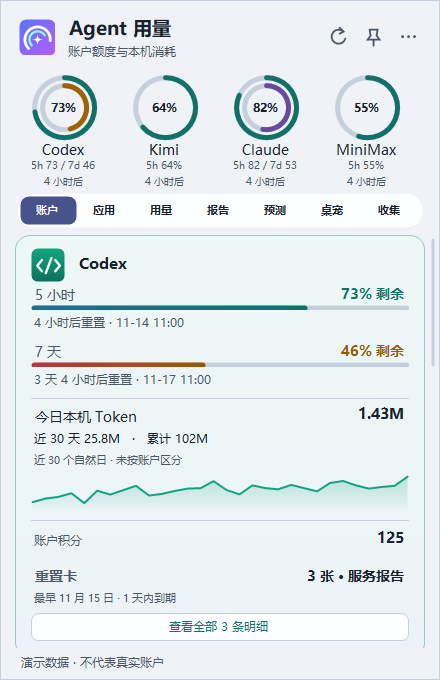
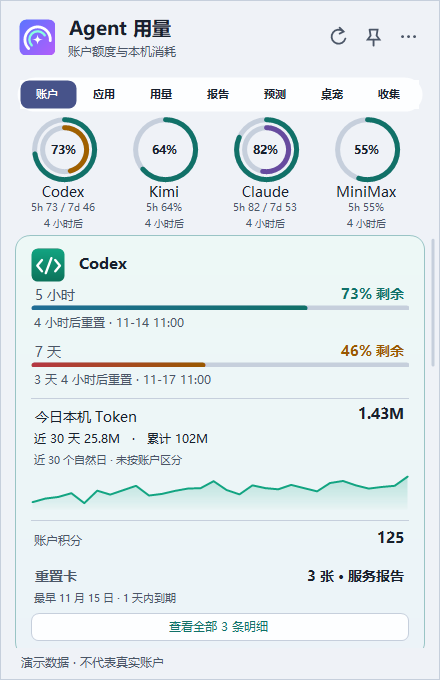
公开 Alpha 48 下载、重绘前后实拍与四档缩放验收结果

diff --git a/windows/PORT_PLAN.md b/windows/PORT_PLAN.md
@@ -4,11 +4,27 @@
 
 ## 下一轮验收重点
 
-1. **继续追查导航残影。** 从同一显示器的通知区域重复打开已经覆盖到 175%。接下来在 200% 和两块不同缩放的显示器上复核，记录面板在哪块屏上打开、是否恰逢刷新、旧高亮是否仍留在原位。保留出问题时的自然画面，再与重新绘制后的同一区域对照。
+1. **复核其他设备上的导航表现。** 已定位并修复正文切页后页头仍停留在旧选项的一种情形。接下来在 200% 和两块不同缩放的显示器上复核，记录面板在哪块屏上打开、是否恰逢刷新，并保留文字重叠或旧高亮出现时的画面。
 2. **完善账户首屏。** Alpha 46 已完成同一组数据、相同逻辑宽度的首屏对照。接着检查浅色主题、窄屏和多个账户同时出现时的行距、重置时间与键盘焦点，优先保证点开托盘就能读清当前余量。
 3. **走通最常用的数据路径。** 先选 Codex 和另一个已有授权的常用来源，从打开托盘、手动刷新一直核对到用量导出。额度按服务端同一时间窗口核对，本机 Token 按本机账本核对。README 分别标出已实测、仅有虚构数据验证和待适配的来源。
 
 下一次面向用户的发版优先交付能在托盘里看到的修复，附复现条件、前后画面和验证范围。验证阶段使用 [中文问题反馈](https://github.com/FoxBai/agent-meter-windows/issues/new/choose) 收集版本、屏幕缩放、触发步骤。稳定版仍需覆盖实体设备上的常用操作。
+
+## Alpha 48 连续切页实测
+
+Alpha 47 从「账户」切到「用量」时会收起额度环，把整排导航向上移。150% 缩放下，鼠标与原来的目标相距 174 个物理像素。Alpha 48 将导航固定在标题下方，账户页在它下面展示额度环，其余六页直接显示正文。这样保留了短屏上的可用空间，连续点击同一排即可切页。
+
+固定导航后的第一份候选包还暴露出另一个问题。从「账户」切到「应用」时，正文已经出现「应用概览」，标题说明和紫色高亮仍留在账户页。自然画面与强制重绘后的导航相差 3172 个像素。最终实现先把标题和导航一起绘制出来，再重建正文控件。[保留失败画面的构建记录](https://github.com/FoxBai/agent-meter-windows/actions/runs/44986327407)
+
+![同一切页步骤的真实画面。左图正文已是应用，高亮仍在账户。右图正文、说明和高亮都已切到应用。](assets/alpha48-navigation-comparison.png)
+
+这次验收从任务栏的隐藏图标进入，按正序和逆序点击七个页面，对同一页两次进入时的导航截图逐像素比较。随后用左右方向键跨越首尾标签，检查选中项和键盘焦点，再点击刷新，按 Esc 收起并从托盘重新打开。另在「用量」「报告」往返时连续取样高亮，日志保存每次采样的时间和选中项。此检查使用隔离桌面上的演示数据。
+
+从公开下载的 Alpha 48 便携包实测，四档缩放下七页导航的纵向偏移均为 0。对「用量」「报告」的八次切换共截取 138 帧，每帧均只有一项高亮。运行中从 150% 切回 125% 后，用量页也可从原托盘图标重新打开。[100%](https://github.com/FoxBai/agent-meter-windows/actions/runs/44987083441) · [125%](https://github.com/FoxBai/agent-meter-windows/actions/runs/44987083457) · [150%](https://github.com/FoxBai/agent-meter-windows/actions/runs/44987083616) · [175%](https://github.com/FoxBai/agent-meter-windows/actions/runs/44987083539)
+
+| 账户页 | 用量页 |
+| --- | --- |
+| <img src="assets/screenshot.png" width="325" alt="账户页选中第一个标签，额度环位于导航下方"> | <img src="assets/usage-preview.png" width="325" alt="用量页选中第三个标签，导航保持原位"> |
 
 ## Alpha 47 高缩放实测
 
@@ -57,6 +73,8 @@
 | 中文体验与文档 | 中文首页、快速使用、安全和贡献说明正在调整；英文作为辅助 | Windows 新代码的说明与注释以中文为主，保证 README、实际行为及下载版本一致 |
 
 ## 当前证据和限制
+
[1 lines of base64/hex data omitted]
 
[1 lines of base64/hex data omitted]
 

diff --git a/README.md b/README.md
@@ -10,11 +10,11 @@
 [![Windows 构建](https://github.com/FoxBai/agent-meter-windows/actions/workflows/windows-port.yml/badge.svg)](https://github.com/FoxBai/agent-meter-windows/actions/workflows/windows-port.yml)
 [![许可证：MIT](https://img.shields.io/badge/License-MIT-blue.svg)](LICENSE)
 
-[下载](https://github.com/FoxBai/agent-meter-windows/releases/tag/windows-v0.1.0-alpha.47) · [快速使用](windows/QUICK_START.md) · [更新记录](windows/CHANGELOG.md) · [移植进度](windows/PORT_PLAN.md) · [English](README.en.md)
+[下载](https://github.com/FoxBai/agent-meter-windows/releases/tag/windows-v0.1.0-alpha.48) · [快速使用](windows/QUICK_START.md) · [更新记录](windows/CHANGELOG.md) · [移植进度](windows/PORT_PLAN.md) · [English](README.en.md)
 
 </div>
 
-基于 [Gary23333/agent-meter](https://github.com/Gary23333/agent-meter) 的独立 Windows 移植版。**Alpha 47** 修复了放大系统显示后，托盘面板里的 Token 总量、金额和额度说明被裁切的问题。[查看 150% 缩放下的修复前后实拍](windows/PORT_PLAN.md#alpha-47-高缩放实测)
+基于 [Gary23333/agent-meter](https://github.com/Gary23333/agent-meter) 的独立 Windows 移植版。**Alpha 48** 将七页导航固定在标题下方。从账户切到用量、报告再切回来，标签始终留在鼠标原来那一排。按 Tab 进入导航，也可以用左右方向键切页。[查看托盘切页实测](windows/PORT_PLAN.md#alpha-48-连续切页实测)
 
 <p align="center">
   <img src="windows/assets/screenshot.png" width="400" alt="深色托盘弹层，虚构演示数据">
@@ -25,7 +25,7 @@
 
 ## 三步开始
 
-1. 从 [Alpha 47 发布页](https://github.com/FoxBai/agent-meter-windows/releases/tag/windows-v0.1.0-alpha.47) 下载 `AgentMeter-Windows-x64.zip`。更新时请先从旧版托盘菜单选择「退出」。
+1. 从 [Alpha 48 发布页](https://github.com/FoxBai/agent-meter-windows/releases/tag/windows-v0.1.0-alpha.48) 下载 `AgentMeter-Windows-x64.zip`。更新时请先从旧版托盘菜单选择「退出」。
 2. 解压并保留完整文件夹，运行 `AgentMeter.Windows.exe`。便携包已包含运行环境；3D 桌宠以及 WorkBuddy、小米 MiMo、Qoder 和 TRAE 登录另需 [WebView2 Runtime](https://developer.microsoft.com/microsoft-edge/webview2/)。
 3. 点击通知区域的图标查看用量；找不到时展开隐藏图标。右键或顶部三个圆点可切换账户、托盘余量和界面风格。
 
